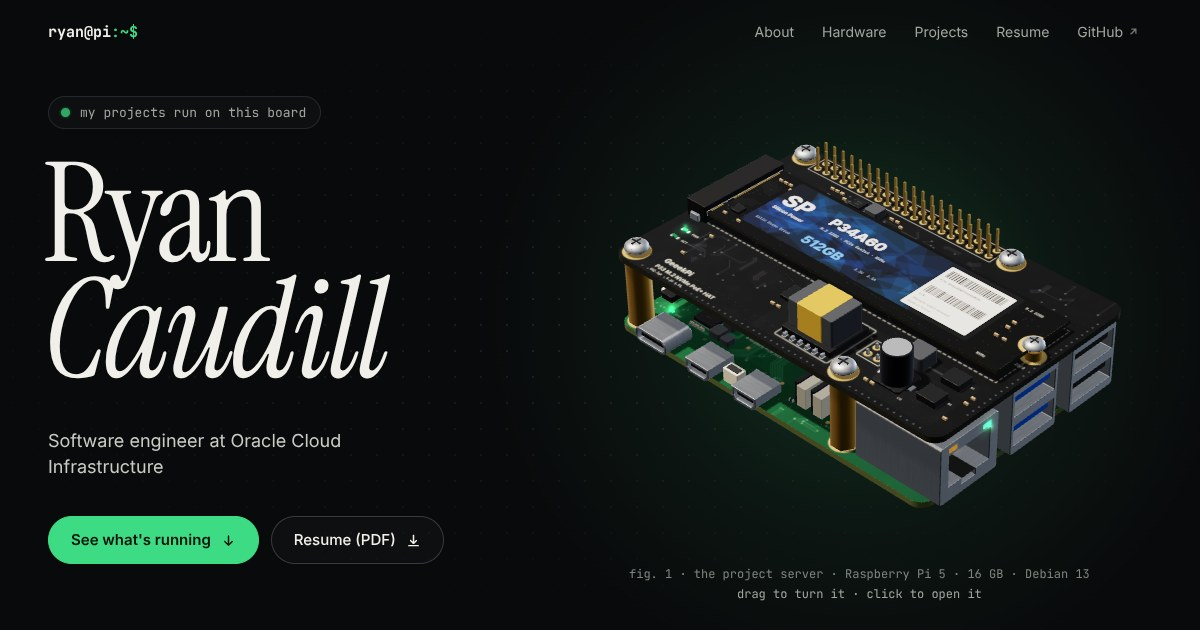
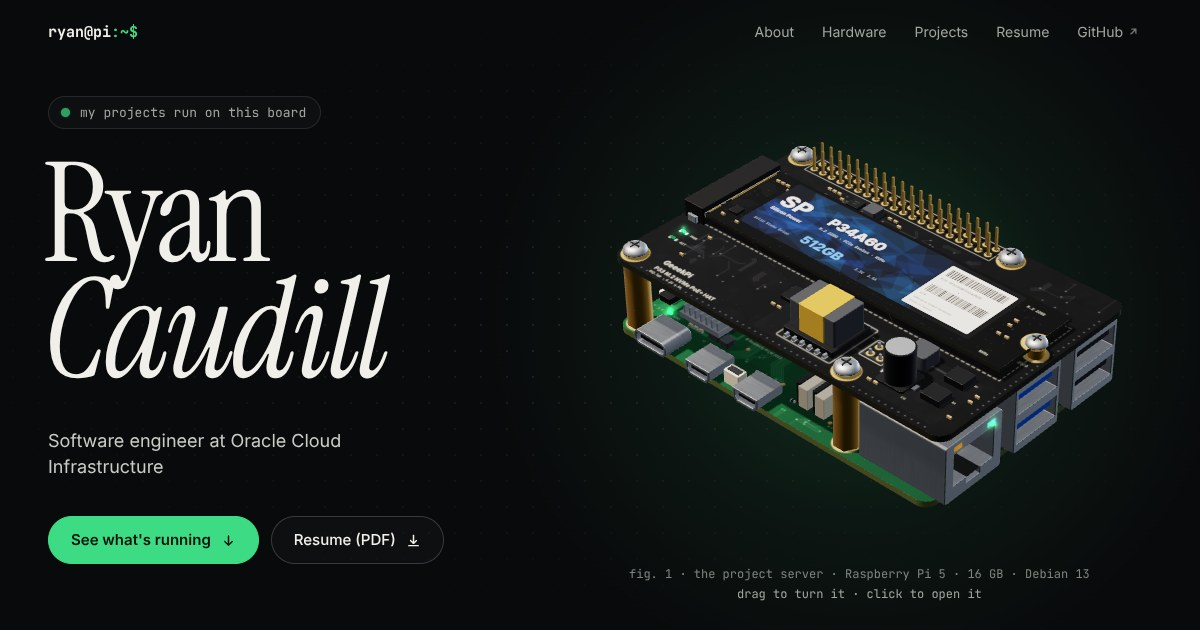
Add the Active Cooler as its own layer of the model
The Pi has a heatsink and fan on it, under the HAT. The model now
draws it: the plate over the hot chips, the blower with its turning
impeller, the fins, the two sprung pins and the fan's lead. It gets a
card in the hardware section, between the HAT and the Pi, and lifts
away before the bare board is shown.

Also shortens the HAT card's name and text so the model keeps its room
on a phone.

Claude-Session: https://claude.ai/code/session_01XzG6RJCa4WH6BEgxFu41Lc

Changed region(s): [[0.4933, 0.2111, 0.925, 0.8143], [0.6167, 0.3921, 0.6475, 0.4222]]

diff --git a/web/static/js/model.js b/web/static/js/model.js
@@ -1,5 +1,5 @@
-// The server, modelled part by part: a Raspberry Pi 5, the standoffs and
-// stacking header above it, a GeeekPi P33 M.2 NVMe PoE+ HAT on those, and a
+// The server, modelled part by part: a Raspberry Pi 5, the Active Cooler on
+// it, the standoffs and stacking header above it, a GeeekPi P33 M.2 NVMe PoE+ HAT on those, and a
 // Silicon Power NVMe SSD in the HAT's slot. No model file is loaded; every part is built here from boxes,
 // extrusions and painted textures.
 //
@@ -177,6 +177,8 @@ export function buildStack(renderer, { drive = '2230', detail = 24 } = {}) {
     resistor: std({ color: 0x17181b, roughness: 0.5 }),
     tin: std({ color: 0xd4d8dc, metalness: 1, roughness: 0.4 }),
     laminate: std({ color: 0x66713f, roughness: 0.75 }),
+    alloy: std({ color: 0xc9cdd2, metalness: 1, roughness: 0.38, roughnessMap: brushed }),
+    pad: std({ color: 0x8fa4b8, roughness: 0.8 }),
     tape: std({ color: 0xd2a92e, roughness: 0.5 }),
     sleeve: std({ color: 0x1a1b20, roughness: 0.35 }),
     hollow: std({ color: 0x0b0c0e, roughness: 0.6, side: THREE.BackSide }),
@@ -199,6 +201,7 @@ export function buildStack(renderer, { drive = '2230', detail = 24 } = {}) {
   };
 
   const leds = [];
+  let spin = null; // the fan's impeller
   /** A lit LED: a bright body, and a halo on the surface it sits on. */
   const led = (parent, x, y, z, colour, kind, o = {}) => {
     const base = new THREE.Color(colour);
@@ -406,6 +409,78 @@ export function buildStack(renderer, { drive = '2230', detail = 24 } = {}) {
   }
 
   // -------------------------------------------------------------------------
+  // The Active Cooler: an aluminium plate over the Pi's hot chips, a blower
+  // that draws air down and pushes it out through the fins, and two sprung
+  // pins that hold it to the board. Its own layer, so it lifts off.
+  // -------------------------------------------------------------------------
+  const cooler = new THREE.Group();
+  root.add(cooler);
+  {
+    const BASE = 2.2; // the plate's underside, resting on the chips' thermal pads
+    const TOP = 9.4;
+    // The plate, cut to miss the header, the fan socket and the connectors.
+    const plate = new THREE.Shape();
+    for (const [i, [x, z]] of [[21.5, 9], [57.5, 9], [57.5, 11.5], [62, 11.5], [62, 36.8], [21.5, 36.8], [21.5, 47.5], [10, 47.5], [10, 17.8], [21.5, 17.8]].entries()) plate[i ? 'lineTo' : 'moveTo'](x, z);
+    plate.closePath();
+    const slab = new THREE.ExtrudeGeometry(plate, { depth: 1.2, bevelEnabled: false });
+    slab.rotateX(Math.PI / 2);
+    mesh(cooler, slab, M.alloy, 0, BASE + 1.2, 0);
+    // Thermal pads: on the memory, the RP1, the power chip. The processor's
+    // lid meets the plate directly.
+    for (const [x, z, w, d, y] of [[12.6, 19.5, 7.8, 12, 1], [51.6, 24.6, 7.3, 7.3, 0.9], [11.4, 39.9, 4.7, 4.7, 0.85]]) part(cooler, x, z, w, d, BASE - y, M.pad, { y, r: 0.2, bevel: 0.04 });
+    part(cooler, 24, 20, 14, 14, BASE - 1.85, M.pad, { y: 1.85, r: 0.2, bevel: 0.04 });
+
+    // The blower's housing: a block with the fan's well cut through it.
+    const fan = { x: 35.5, z: 23, r: 11.2 };
+    const housing = rounded(22, 9.5, 27, 27, 1.2);
+    housing.holes.push(circle(fan.x, fan.z, fan.r));
+    const walls = new THREE.ExtrudeGeometry(housing, { depth: TOP - BASE - 1.2, bevelEnabled: false, curveSegments: 24 });
+    walls.rotateX(Math.PI / 2);
+    mesh(cooler, walls, M.alloy, 0, TOP, 0);
+    const well = new THREE.Mesh(new THREE.CylinderGeometry(fan.r, fan.r, TOP - BASE - 1.3, 40, 1, true), M.hollow);
+    well.position.set(fan.x, (TOP + BASE + 1.2) / 2, fan.z);
+    cooler.add(well);
+    // The impeller: a hub, a ring of blades and a rim, turned by tick().
+    const impeller = new THREE.Group();
+    impeller.position.set(fan.x, BASE + 1.3, fan.z);
+    cooler.add(impeller);
+    mesh(impeller, new THREE.CylinderGeometry(4.6, 4.8, 5.2, 32), M.plastic, 0, 2.6, 0);
+    const blade = new THREE.BoxGeometry(5.6, 4.6, 0.35);
+    for (let i = 0; i < 26; i++) {
+      const a = (i / 26) * Math.PI * 2;
+      const b = mesh(impeller, blade, M.plastic, Math.cos(a) * 7.6, 2.5, Math.sin(a) * 7.6);
+      b.rotation.y = -a + 0.6;
+    }
+    const rim = mesh(impeller, new THREE.TorusGeometry(10.3, 0.35, 8, 48), M.plastic, 0, 4.9, 0);
+    rim.rotation.x = Math.PI / 2;
+    const hub = label(impeller, decals.fan, -4.2, -4.2, 8.4, 8.4, 5.2, { roughness: 0.4 });
+    hub.castShadow = false;
+    spin = impeller;
+
+    // The fins the air leaves through, running toward the USB ports.
+    const fins = [];
+    for (let z = 18.1; z < 36.6; z += 1.45) fins.push([55.6, (TOP + BASE + 1.2) / 2, z]);
+    instances(cooler, new THREE.BoxGeometry(12.4, TOP - BASE - 1.2, 0.5), M.alloy, fins);
+    // A few low fins over the power chip.
+    const low = [];
+    for (let x = 11.2; x < 21; x += 1.6) low.push([x, BASE + 2.2, 42.4]);
+    instances(cooler, new THREE.BoxGeometry(0.5, 2, 9.4), M.alloy, low);
+
+    // The pins, each with its spring.
+    const top = BASE + 1.2;
+    for (const [x, z] of [[59.6, 14.4], [15.8, 35.2]]) {
+      mesh(cooler, new THREE.CylinderGeometry(0.9, 0.9, top + 4 + PCB + 1.2, 14), M.cream, x, (top + 4 - PCB - 1.2) / 2, z);
+      mesh(cooler, new THREE.CylinderGeometry(1.9, 1.9, 0.9, 20), M.cream, x, top + 4.2, z);
+      mesh(cooler, new THREE.CylinderGeometry(1.45, 1.45, 3.6, 14), M.steel, x, top + 1.9, z);
+    }
+
+    // The fan's lead, round to the socket marked FAN.
+    const lead = new THREE.CatmullRomCurve3([[49, 7.6, 12], [52, 8.2, 8.6], [57, 7, 7.6], [60.6, 5, 8.2], [61.2, 3.3, 8.6]].map((p) => new THREE.Vector3(...p)));
+    mesh(cooler, new THREE.TubeGeometry(lead, 24, 0.55, 8), M.plastic);
+    part(cooler, 58.9, 7.5, 4.6, 2.2, 1.6, M.cream, { y: 2.6, r: 0.2 });
+  }
+
+  // -------------------------------------------------------------------------
   // Between the boards: standoffs, the stacking header, screws
   // -------------------------------------------------------------------------
   const standoffs = new THREE.Group();
@@ -547,7 +622,9 @@ export function buildStack(renderer, { drive = '2230', detail = 24 } = {}) {
   ssdScrew.position.copy(ssd.position);
 
   // Where the annotations point.
-  const anchors = { ssd: new THREE.Object3D(), hat: new THREE.Object3D(), pi: new THREE.Object3D() };
+  const anchors = { ssd: new THREE.Object3D(), hat: new THREE.Object3D(), cooler: new THREE.Object3D(), pi: new THREE.Object3D() };
+  anchors.cooler.position.set(35.5, 9.4, 23);
+  cooler.add(anchors.cooler);
   anchors.ssd.position.set(Math.min(len - 7, 36), 1.9, 11);
   ssd.add(anchors.ssd);
   anchors.hat.position.set(HAT.transformer.x + 6.5, 7.7, HAT.transformer.z + 5.5);
@@ -562,10 +639,12 @@ export function buildStack(renderer, { drive = '2230', detail = 24 } = {}) {
    * Takes the stack apart.
    *   open    0 assembled .. 1 every layer floating above the one below
    *   lift    0..1, raises the SSD further out of its slot
-   *   clear   0..1, carries everything above the Pi up and out of the way
+   *   clear   0..1, carries the HAT and what holds it up and out of the way
+   *   bare    0..1, carries the cooler off after them, leaving the Pi alone
    */
-  function pose(open, lift = 0, clear = 0) {
+  function pose(open, lift = 0, clear = 0, bare = 0) {
     const away = ease(clear) * 150;
+    cooler.position.y = span(open, 0.4, 1) * 6 + ease(clear) * 8 + ease(bare) * 150;
     screwsTop.position.y = HAT_TOP + span(open, 0, 0.55) * 46 + away * 1.15;
     ssdScrew.position.y = DRIVE_Y + span(open, 0.05, 0.6) * 24 + lift * 8;
     ssd.position.y = DRIVE_Y + span(open, 0.12, 0.75) * 13 + lift * 7;
@@ -576,8 +655,10 @@ export function buildStack(renderer, { drive = '2230', detail = 24 } = {}) {
   }
   pose(0);
 
-  /** Runs the LEDs. power 0..1 fades them all up, for the switch-on. */
-  function tick(time, power = 1) {
+  /** Runs the LEDs and the fan. power 0..1 fades the LEDs up, for the
+   *  switch-on; still holds the fan where it is. */
+  function tick(time, power = 1, still = false) {
+    if (!still) spin.rotation.y = -time * 9;
     for (const l of leds) {
       let k = 1;
       const beat = (rate) => noise(Math.floor(time * rate) + l.seed);
@@ -591,7 +672,7 @@ export function buildStack(renderer, { drive = '2230', detail = 24 } = {}) {
     }
   }
 
-  return { root, anchors, pose, tick, layers: { pi, hat, ssd } };
+  return { root, anchors, pose, tick, layers: { pi, cooler, hat, ssd } };
 }
 
 function noise(n) {

diff --git a/web/static/js/scene.js b/web/static/js/scene.js
@@ -22,16 +22,17 @@ const CAMERA_DISTANCE = 430; // mm; about how far you'd hold a board to look at 
 //   yaw, tilt   radians: turned about its vertical axis, then tipped toward the camera
 //   at          the point of the model (mm) held at the centre of its slot
 //   fit         the radius (mm) around that point that has to fit in the slot
-//   open, lift, clear   how far apart the layers are; see model.js pose()
+//   open, lift, clear, bare   how far apart the layers are; see model.js pose()
 const VIEWS = {
-  hero: { yaw: -0.62, tilt: 0.6, at: [42.5, 9, 28], fit: 50, open: 0, lift: 0, clear: 0 },
-  about: { yaw: -0.2, tilt: 0.72, at: [42.5, 9, 28], fit: 50, open: 0, lift: 0, clear: 0 },
-  closed: { yaw: -0.5, tilt: 0.42, at: [42.5, 9, 28], fit: 54, open: 0, lift: 0, clear: 0 },
+  hero: { yaw: -0.62, tilt: 0.6, at: [42.5, 9, 28], fit: 50, open: 0, lift: 0, clear: 0, bare: 0 },
+  about: { yaw: -0.2, tilt: 0.72, at: [42.5, 9, 28], fit: 50, open: 0, lift: 0, clear: 0, bare: 0 },
+  closed: { yaw: -0.5, tilt: 0.42, at: [42.5, 9, 28], fit: 54, open: 0, lift: 0, clear: 0, bare: 0 },
   peek: { tilt: 0.4, at: [40, 30, 28], fit: 64, open: 0.86 }, // laid over hero or about when clicked open
-  open: { yaw: -0.56, tilt: 0.34, at: [40, 33, 28], fit: 68, open: 1, lift: 0, clear: 0 },
-  ssd: { yaw: -0.86, tilt: 0.48, at: [35, 45, 27], fit: 55, open: 1, lift: 1, clear: 0 },
-  hat: { yaw: -0.32, tilt: 0.52, at: [38, 34, 28], fit: 62, open: 1, lift: 0, clear: 0 },
-  pi: { yaw: -0.52, tilt: 0.8, at: [42.5, 4, 28], fit: 54, open: 1, lift: 0, clear: 1 },
+  open: { yaw: -0.56, tilt: 0.34, at: [40, 33, 28], fit: 68, open: 1, lift: 0, clear: 0, bare: 0 },
+  ssd: { yaw: -0.86, tilt: 0.48, at: [35, 45, 27], fit: 55, open: 1, lift: 1, clear: 0, bare: 0 },
+  hat: { yaw: -0.32, tilt: 0.52, at: [38, 34, 28], fit: 62, open: 1, lift: 0, clear: 0, bare: 0 },
+  cooler: { yaw: -0.4, tilt: 0.72, at: [42.5, 9, 28], fit: 54, open: 1, lift: 0, clear: 1, bare: 0 },
+  pi: { yaw: -0.52, tilt: 0.8, at: [42.5, 4, 28], fit: 54, open: 1, lift: 0, clear: 1, bare: 1 },
 };
 // The hardware section's scroll, 0..1: the stack opens over the first
 // stretch, each layer gets an equal share, and it closes over the last.
@@ -244,7 +245,7 @@ export async function startStage(els, { drive = '2230', still = false } = {}) {
     // (the model follows the scroll directly) keep up with it closely.
     const want = wanted(s);
     const rate = still ? 60 : want.scrub ? 9 : 3.6;
-    for (const k of ['yaw', 'tilt', 'fit', 'open', 'lift', 'clear']) now[k] = damp(now[k], want.view[k], rate, dt);
+    for (const k of ['yaw', 'tilt', 'fit', 'open', 'lift', 'clear', 'bare']) now[k] = damp(now[k], want.view[k], rate, dt);
     now.at = now.at.map((v, i) => damp(v, want.view.at[i], rate, dt));
 
     // Where on the canvas: between the two slots, level with the scroll.
@@ -293,8 +294,8 @@ export async function startStage(els, { drive = '2230', still = false } = {}) {
     pivot.rotation.set(tilt, yaw, 0, 'XYZ');
     pivot.position.y = Math.sin(age * 0.9) * 0.9 * drift;
     stack.position.set(-now.at[0], -now.at[1], -now.at[2]);
-    model.pose(Math.max(now.open, arrive * 0.32), now.lift, now.clear);
-    model.tick(age, still ? 1 : clamp((age - 1.1) / 0.7));
+    model.pose(Math.max(now.open, arrive * 0.32), now.lift, now.clear, now.bare);
+    model.tick(age, still ? 1 : clamp((age - 1.1) / 0.7), still);
 
     // Frame it: zoom so `fit` millimetres span half the slot, then shift
     // the picture so the model's centre lands on the slot's.

diff --git a/web/static/js/textures.js b/web/static/js/textures.js
@@ -669,6 +669,15 @@ export function paintDecals(drive) {
       g.stroke();
       berry(g, 6, 4.3, 1.05, 'rgba(84, 92, 100, 0.6)');
     }),
+    // The sticker on the fan's hub.
+    fan: decal(8.4, 8.4, 48, (g) => {
+      g.fillStyle = '#e8eaed';
+      g.beginPath();
+      g.arc(4.2, 4.2, 4.1, 0, TAU);
+      g.fill();
+      berry(g, 4.2, 3.7, 1.25, '#c7254e');
+      text(g, 'DC 5V 0.25A', 4.2, 6.9, 0.72, { align: 'center', font: MONO, fill: '#3a3f45' });
+    }),
     hatReg: decal(3, 3, 48, (g) => {
       text(g, 'AP22', 1.5, 1.4, 0.6, { align: 'center', font: MONO, fill: laser });
       text(g, '653', 1.5, 2.2, 0.6, { align: 'center', font: MONO, fill: laser });

diff --git a/web/static/style.css b/web/static/style.css
@@ -301,7 +301,7 @@ button { font: inherit; color: inherit; }
 .layer dd { text-align: right; color: var(--text); }
 .steps { display: none; }
 
-.has-3d .teardown { height: 460vh; }
+.has-3d .teardown { height: 580vh; }
 .has-3d .teardown__pin { position: sticky; top: 0; height: 100vh; height: 100svh; }
 .has-3d .teardown__in {
   height: 100%; padding-top: var(--top); padding-bottom: 0;

diff --git a/internal/content/content.go b/internal/content/content.go
@@ -30,7 +30,7 @@ type Site struct {
 // Layer is one piece of the server, shown as a card in the hardware
 // section that points at its part of the 3D model.
 type Layer struct {
-	Part    string `yaml:"part"`  // the piece of the model: ssd, hat or pi
+	Part    string `yaml:"part"`  // the piece of the model: ssd, hat, cooler or pi
 	Label   string `yaml:"label"` // small heading above the name
 	Name    string `yaml:"name"`
 	Summary string `yaml:"summary"`
@@ -80,7 +80,7 @@ type Entry struct {
 // The pieces of the 3D model a hardware card can point at, and the SSD
 // sizes the model can draw.
 var (
-	parts  = map[string]bool{"ssd": true, "hat": true, "pi": true}
+	parts  = map[string]bool{"ssd": true, "hat": true, "cooler": true, "pi": true}
 	drives = map[string]bool{"2230": true, "2242": true, "2260": true, "2280": true}
 )
 
@@ -120,7 +120,7 @@ func (s Site) check() error {
 	pointed := map[string]bool{}
 	for i, l := range s.Hardware {
 		if !parts[l.Part] {
-			return fmt.Errorf("hardware[%d]: part %q is not ssd, hat or pi", i, l.Part)
+			return fmt.Errorf("hardware[%d]: part %q is not ssd, hat, cooler or pi", i, l.Part)
 		}
 		if pointed[l.Part] {
 			return fmt.Errorf("hardware: part %q has two cards", l.Part)

diff --git a/internal/content/content_test.go b/internal/content/content_test.go
@@ -17,7 +17,7 @@ func TestLoadChecksTheContent(t *testing.T) {
 		{"project without a host", "name: A\nprojects: [{id: x}]", "needs an id and a host"},
 		{"project id twice", "name: A\nprojects: [{id: x, host: h}, {id: x, host: i}]", "used twice"},
 		{"hardware", "name: A\nhardware: [{part: ssd, name: S}, {part: pi, name: P}]", ""},
-		{"unknown part", "name: A\nhardware: [{part: fan, name: F}]", "not ssd, hat or pi"},
+		{"unknown part", "name: A\nhardware: [{part: case, name: C}]", "not ssd, hat, cooler or pi"},
 		{"part twice", "name: A\nhardware: [{part: pi, name: P}, {part: pi, name: Q}]", "two cards"},
 		{"hardware without a name", "name: A\nhardware: [{part: pi}]", "needs a name"},
 		{"drive", "name: A\ndrive: \"2280\"", ""},

diff --git a/README.md b/README.md
@@ -4,7 +4,7 @@ My portfolio: a static site on Cloudflare Pages. The projects it lists run on my
 
 A small Go program builds it: it renders the page from [`content/site.yaml`](content/site.yaml) and writes it, with the CSS, scripts and images, into `dist/`. Cloudflare Pages runs that build on every push to `main` and serves `dist/`.
 
-The page opens on a 3D model of that Pi: the board, the GeeekPi P33 M.2 NVMe PoE+ HAT on top of it, and the Silicon Power SSD in the HAT's slot. Drag it to turn it, click it to open it up, and scroll through the hardware section to take it apart layer by layer.
+The page opens on a 3D model of that Pi: the board, the GeeekPi P33 M.2 NVMe PoE+ HAT on top of it, the Silicon Power SSD in the HAT's slot, and the Active Cooler between the two boards. Drag it to turn it, click it to open it up, and scroll through the hardware section to take it apart layer by layer.
 
 ## Edit the content
 
@@ -22,7 +22,7 @@ Nothing is loaded from a model file. [`web/static/js/model.js`](web/static/js/mo
 | The angle and zoom at each point of the page | `VIEWS` at the top of [`scene.js`](web/static/js/scene.js) |
 | How far the layers move apart | `pose()` in `model.js` |
 
-The cards in the hardware section each name the part they point at (`ssd`, `hat` or `pi`); the model draws its annotation line to that part.
+The cards in the hardware section each name the part they point at (`ssd`, `hat`, `cooler` or `pi`); the model draws its annotation line to that part.
 
 Where the model can't run (no JavaScript, or no WebGL) the page shows the drawing in [`web/templates/pi.html`](web/templates/pi.html) instead, and the hardware cards become a plain row. Visitors who ask their system for reduced motion get the model without the drifting and the entrance.
 
@@ -96,7 +96,7 @@ web/templates/      index.html (the page), 404.html, partials.html (shared piece
 web/static/         style.css, favicon, resume.pdf, og.jpg
 web/static/js/      main.js      the page: header, scroll effects, starts the rest
                     scene.js     the 3D stage: camera, lighting, scroll and drag
-                    model.js     the Pi, HAT and SSD, part by part
+                    model.js     the Pi, cooler, HAT and SSD, part by part
                     textures.js  the boards' traces, silkscreen and labels
                     terminal.js  the prompt in the projects terminal
                     boot.js      marks the page as scripted before it paints
